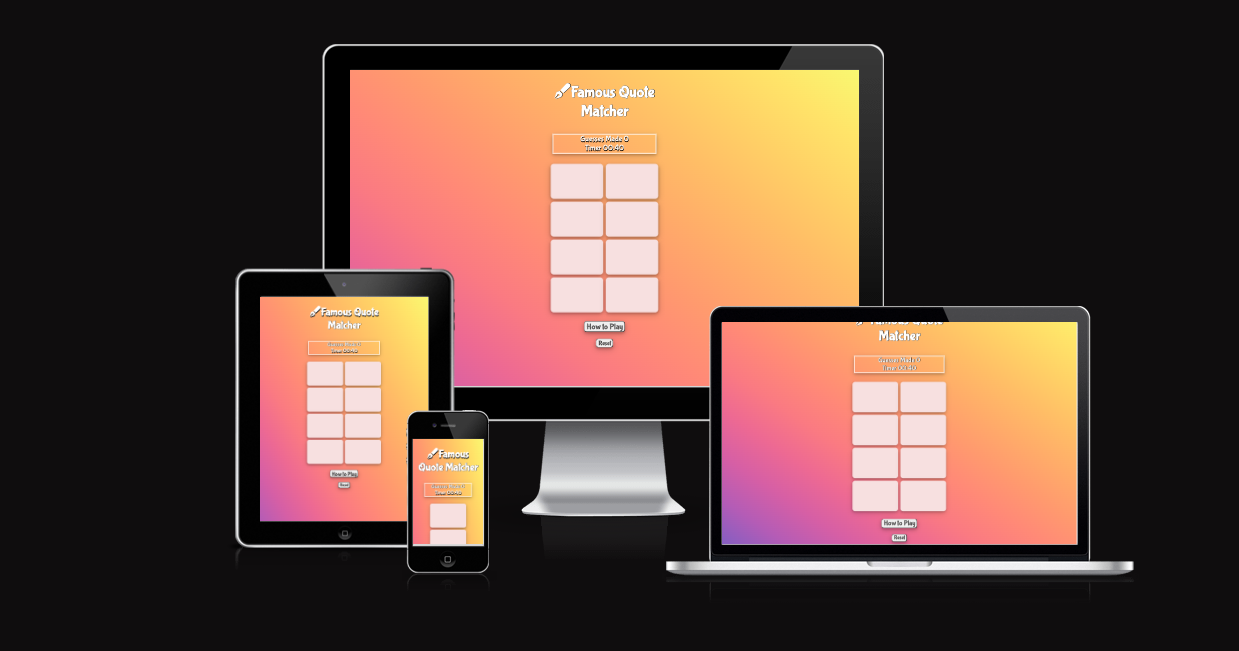
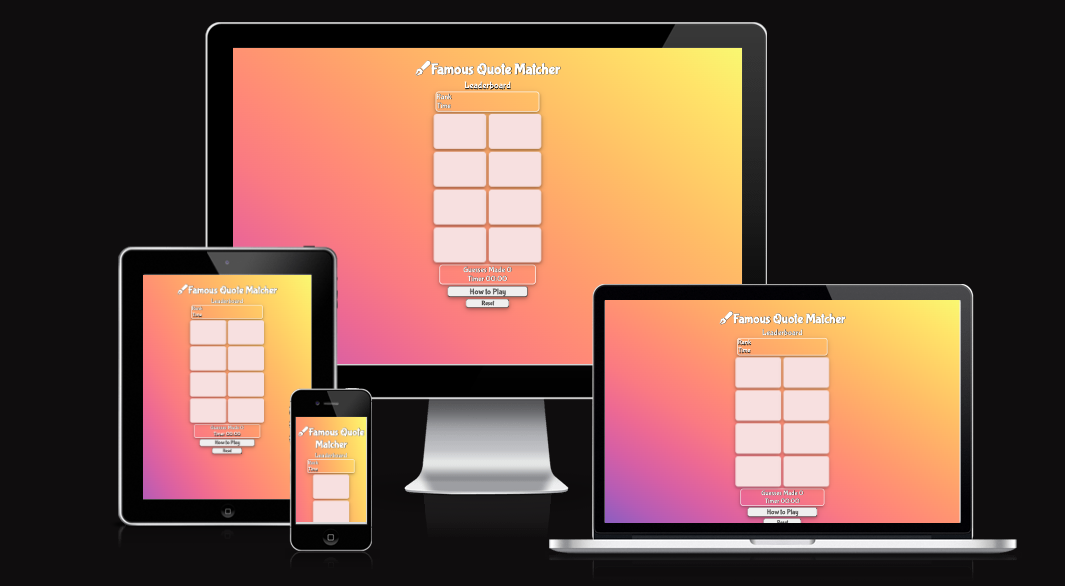
New wireframes added including the leaderboard

diff --git a/assets/css/style.css b/assets/css/style.css
@@ -29,7 +29,7 @@ body {
 
 .leader {
     color: white;
-    font-size: 30px;
+    font-size: 35px;
     text-shadow: 1px 1px black;
 }
 

diff --git a/README.md b/README.md
@@ -105,7 +105,7 @@ To help with making Famous Quote Matcher as user friendly as possible I used ico
 
 To follow best practice, wireframes were developed for mobile, tablet, and desktop sizes.
 
-I've used [Balsamiq](https://balsamiq.com/wireframes) to design my site wireframes. 
+I've used [Balsamiq](https://balsamiq.com/wireframes) to design my site wireframes. Ive updated the design from my earlier sketch to incorporate a leaderboard so it can create more of a challenge for the user.
 
 The direct link is here https://balsamiq.cloud/s9ei7tz/phsyq6e/rFF21?f=N4IgUiBcAMA0IDkpxAYWfAMlAjPAQrvALJEgBaZA0lANoC6AvkA%3D
 
